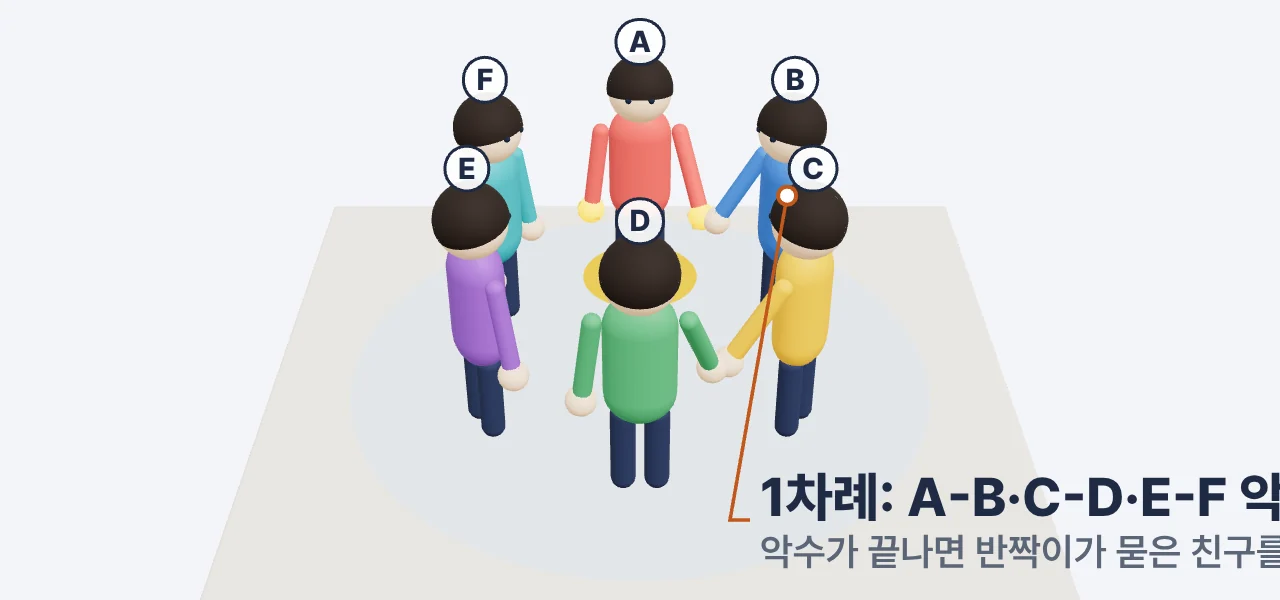
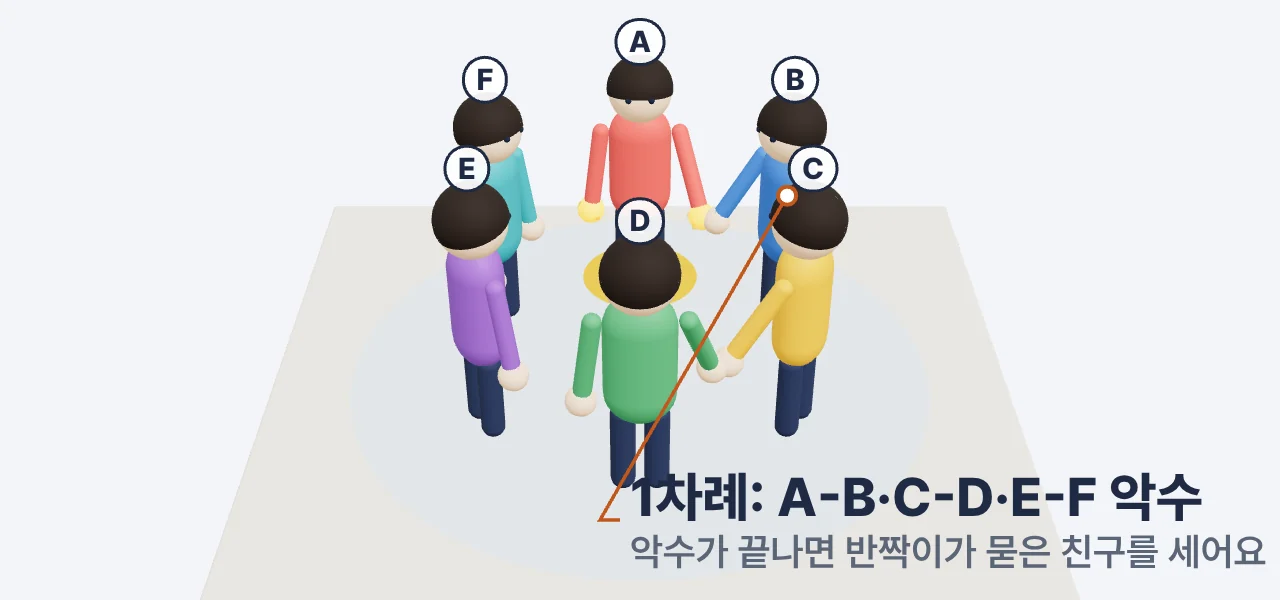
교과 교재(기후·감염병): 실사형 설명 사진 16장 넣기 · 사진 속 가짜 한글 지우기
- 원장 맥에서 만든 후보 57장 중 16장을 골라 assets/book/<단원>-photo-<장면>.webp로 넣고 두 교재를 다시 생성.
- 폭염·집중호우·여섯 친구 사진의 어색한 한글(간판·번호판·옷 글씨)을 빈 간판·흐림·천 색으로 정리.
- 기침 예절(손으로 가리는 모습)·환기(창문 닫힘)는 잘못 가르칠 수 있어 넣지 않음.
- 사진 칸을 3D 렌더 비율(32/15)에 맞춰 렌더 이름표가 잘리지 않게, glit-shake 렌더 이름표 자리 옮김.

Claude-Session: https://claude.ai/code/session_01QaWvZ4cDmAshpYaqknmU9s

Changed region(s): [[0.4688, 0.54, 1.0, 0.96], [0.5625, 0.33, 0.625, 0.57], [0.5, 0.63, 0.5312, 0.75]]

diff --git a/science-lab/data/book/c22-s42-u04.workbook.js b/science-lab/data/book/c22-s42-u04.workbook.js
@@ -975,6 +975,29 @@ export const workbook = {
      ]
     },
     {
+     "type": "gallery",
+     "items": [
+      {
+       "src": "../assets/book/c22-s42-u04-photo-heatwave.webp",
+       "alt": "햇볕이 강한 여름 거리",
+       "cap": "폭염"
+      },
+      {
+       "src": "../assets/book/c22-s42-u04-photo-downpour.webp",
+       "alt": "많은 비로 물에 잠긴 낮은 길",
+       "cap": "집중호우"
+      },
+      {
+       "src": "../assets/book/c22-s42-u04-photo-drought.webp",
+       "alt": "물이 말라 갈라진 저수지 바닥",
+       "cap": "가뭄"
+      }
+     ],
+     "numbered": false,
+     "cols": 3,
+     "credit": "AI 실사형 설명 이미지 · 실제 사진 아님"
+    },
+    {
      "type": "text",
      "text": "한 번의 소나기나 하루의 추위는 기후변화의 증거가 아니에요. 여러 해에 걸쳐 같은 방향으로 달라지는지 살펴봐요."
     },
@@ -1058,6 +1081,19 @@ export const workbook = {
       "숲을 베어 내 이산화 탄소를 흡수하는 나무가 줄어든다"
      ],
      "ordered": false
+    },
+    {
+     "type": "gallery",
+     "items": [
+      {
+       "src": "../assets/book/c22-s42-u04-photo-smokestack.webp",
+       "alt": "굴뚝에서 연기가 나오는 화력 발전소와 석탄 더미",
+       "cap": "석탄을 태워 전기를 만드는 화력 발전소"
+      }
+     ],
+     "numbered": false,
+     "cols": 1,
+     "credit": "AI 실사형 설명 이미지 · 실제 사진 아님"
     },
     {
      "type": "example",
@@ -1149,12 +1185,12 @@ export const workbook = {
      "type": "gallery",
      "items": [
       {
-       "src": "../assets/book/c22-s42-u04-sea-build.webp",
+       "src": "../assets/book/c22-s42-u04-photo-setup.webp",
        "alt": "점토로 만든 해안 마을 모형",
        "cap": "통에 점토 땅을 만들고 집 A~E를 붙여요."
       },
       {
-       "src": "../assets/book/c22-s42-u04-sea-pour.webp",
+       "src": "../assets/book/c22-s42-u04-photo-pour.webp",
        "alt": "통에 물을 붓는 모습",
        "cap": "물높이 1 cm(지금의 바다)에서 시작해 물을 조금씩 부어요."
       },
@@ -1171,7 +1207,7 @@ export const workbook = {
      ],
      "numbered": true,
      "cols": 2,
-     "credit": "3D 모형 렌더 · 모형 값(실제 측정이 아님)"
+     "credit": "3D 모형 렌더(모형 값) · 실사형 사진은 AI 설명 이미지(실제 사진 아님)"
     },
     {
      "type": "table",
@@ -1274,10 +1310,15 @@ export const workbook = {
        "src": "../assets/book/c22-s42-u04-sea-wall.webp",
        "alt": "방파제를 세운 모형",
        "cap": "모형의 방파제(3.5 cm)"
+      },
+      {
+       "src": "../assets/book/c22-s42-u04-photo-seawall.webp",
+       "alt": "파도를 막는 바닷가의 콘크리트 방파제",
+       "cap": "실제 바닷가의 방파제"
       }
      ],
      "numbered": false,
-     "cols": 1,
+     "cols": 2,
      "credit": "3D 모형 렌더(모형 값) · 실사형 사진은 AI 설명 이미지(실제 사진 아님)"
     },
     {
@@ -1343,6 +1384,24 @@ export const workbook = {
        "방파제, 빗물 펌프장, 낮은 땅에 집 짓지 않기"
       ]
      ]
+    },
+    {
+     "type": "gallery",
+     "items": [
+      {
+       "src": "../assets/book/c22-s42-u04-photo-lightswitch.webp",
+       "alt": "빈 교실의 전등 스위치를 끄는 손",
+       "cap": "줄이기 — 빈 교실 불 끄기"
+      },
+      {
+       "src": "../assets/book/c22-s42-u04-photo-seawall.webp",
+       "alt": "바닷가의 방파제",
+       "cap": "대비하기 — 방파제"
+      }
+     ],
+     "numbered": false,
+     "cols": 2,
+     "credit": "AI 실사형 설명 이미지 · 실제 사진 아님"
     },
     {
      "type": "example",
@@ -1622,6 +1681,19 @@ export const workbook = {
     {
      "type": "heading",
      "text": "읽기 자료 · 낮은 섬나라"
+    },
+    {
+     "type": "gallery",
+     "items": [
+      {
+       "src": "../assets/book/c22-s42-u04-photo-atoll.webp",
+       "alt": "바다 높이와 거의 같은 낮고 평평한 산호섬",
+       "cap": "낮고 평평한 산호섬(설명 이미지)"
+      }
+     ],
+     "numbered": false,
+     "cols": 1,
+     "credit": "AI 실사형 설명 이미지 · 실제 사진 아님"
     },
     {
      "type": "text",
@@ -2341,7 +2413,7 @@ export const workbook = {
   }
  ],
  "figures": {
-  "hero": "<div class=\"ed-photo\"><img src=\"../assets/book/c22-s42-u04-sea-hero.webp\" alt=\"유리 통 속 해안 마을 모형. 바다 옆 언덕과 낮은 평지에 집 다섯 채가 있다.\" loading=\"eager\"><p class=\"ed-photo-note\">바다 바로 옆 언덕 위의 집 A와 안쪽 낮은 땅의 집 D — 어느 집이 먼저 물에 닿을까요?</p><small class=\"ed-photo-credit\">3D 모형 렌더 · 모형 값(실제 측정이 아님)</small></div>",
+  "hero": "<div class=\"ed-photo\"><img src=\"../assets/book/c22-s42-u04-photo-setup.webp\" alt=\"투명한 통 속에 점토로 만든 해안 마을 모형과 작은 집들, 세워 둔 자\" loading=\"eager\"><p class=\"ed-photo-note\">바다 바로 옆 언덕 위의 집과 안쪽 낮은 땅의 집 — 어느 집이 먼저 물에 닿을까요?</p><small class=\"ed-photo-credit\">AI 실사형 설명 이미지 · 실제 사진 아님</small></div>",
   "build": "<div class=\"ed-photo\"><img src=\"../assets/book/c22-s42-u04-sea-build.webp\" alt=\"점토로 만든 해안 마을 모형과 눈금자\" loading=\"eager\"><p class=\"ed-photo-note\">통·점토 땅·집 위치는 그대로 두고 물높이만 바꿔요.</p><small class=\"ed-photo-credit\">3D 모형 렌더 · 모형 값(실제 측정이 아님)</small></div>",
   "start": "<div class=\"ed-photo\"><img src=\"../assets/book/c22-s42-u04-sea-start.webp\" alt=\"물높이 1 cm에서 시작하는 해안 마을 모형\" loading=\"eager\"><p class=\"ed-photo-note\">물높이 1 cm(지금의 바다)에서 시작해 1 cm씩 높여요. 집 A~E의 땅 높이는 앞쪽 표를 봐요.</p><small class=\"ed-photo-credit\">3D 모형 렌더 · 모형 값(실제 측정이 아님)</small></div>",
   "over": "<div class=\"ed-photo\"><img src=\"../assets/book/c22-s42-u04-sea-over.webp\" alt=\"물이 방파제를 넘어 안쪽 낮은 땅까지 들어온 모형\" loading=\"eager\"><p class=\"ed-photo-note\">방파제(3.5 cm)보다 물이 높아지면 넘쳐 들어와요.</p><small class=\"ed-photo-credit\">3D 모형 렌더 · 모형 값(실제 측정이 아님)</small></div>",

diff --git a/science-lab/data/book/c22-s32-u04.workbook.js b/science-lab/data/book/c22-s32-u04.workbook.js
@@ -979,6 +979,29 @@ export const workbook = {
      "text": "실내 공기를 떠다니다 옮겨 가기도 하고, 상한 음식이나 깨끗하지 않은 물로 옮겨 가기도 해요. 컵이나 수저를 함께 쓰면 침으로 옮겨 갈 수 있어요."
     },
     {
+     "type": "gallery",
+     "items": [
+      {
+       "src": "../assets/book/c22-s32-u04-photo-doorknob.webp",
+       "alt": "문손잡이를 잡는 손",
+       "cap": "접촉 — 손·물건"
+      },
+      {
+       "src": "../assets/book/c22-s32-u04-photo-sneeze.webp",
+       "alt": "재채기할 때 퍼지는 작은 침방울",
+       "cap": "비말 — 기침·재채기"
+      },
+      {
+       "src": "../assets/book/c22-s32-u04-photo-cooking.webp",
+       "alt": "채소를 씻고 물을 끓이는 부엌",
+       "cap": "물·음식"
+      }
+     ],
+     "numbered": false,
+     "cols": 3,
+     "credit": "AI 실사형 설명 이미지 · 실제 사진 아님"
+    },
+    {
      "type": "diagram",
      "key": "routes",
      "caption": "옮겨 가는 길과 막는 행동"
@@ -1055,7 +1078,7 @@ export const workbook = {
      "type": "gallery",
      "items": [
       {
-       "src": "../assets/book/c22-s32-u04-glit-start.webp",
+       "src": "../assets/book/c22-s32-u04-photo-glitter-circle.webp",
        "alt": "여섯 친구가 둥글게 선 모습",
        "cap": "여섯 친구(A~F)가 둥글게 서요."
       },
@@ -1077,7 +1100,7 @@ export const workbook = {
      ],
      "numbered": true,
      "cols": 2,
-     "credit": "3D 모형 렌더 · 학습용 모형(반짝이는 병원체가 아님)"
+     "credit": "3D 모형 렌더(학습용 모형) · 실사형 사진은 AI 설명 이미지(실제 사진 아님)"
     },
     {
      "type": "table",
@@ -1211,6 +1234,24 @@ export const workbook = {
     {
      "type": "text",
      "text": "손은 병원체가 옮겨 가는 가장 흔한 길이에요. **비누와 흐르는 물로 30초 이상**, 손바닥·손등·손가락 사이·손가락·엄지손가락·손톱 밑까지 꼼꼼히 씻어요."
+    },
+    {
+     "type": "gallery",
+     "items": [
+      {
+       "src": "../assets/book/c22-s32-u04-photo-handwash.webp",
+       "alt": "비누 거품으로 손을 씻는 모습",
+       "cap": "비누 거품을 내어 30초 이상"
+      },
+      {
+       "src": "../assets/book/c22-s32-u04-photo-glitter-left.webp",
+       "alt": "물로만 헹군 뒤 손가락 사이와 손톱 밑에 남은 반짝이",
+       "cap": "물로만 헹구면 남는 곳"
+      }
+     ],
+     "numbered": false,
+     "cols": 2,
+     "credit": "AI 실사형 설명 이미지 · 실제 사진 아님"
     },
     {
      "type": "diagram",
@@ -2313,7 +2354,7 @@ export const workbook = {
   }
  ],
  "figures": {
-  "hero": "<div class=\"ed-photo\"><img src=\"../assets/book/c22-s32-u04-glit-hero.webp\" alt=\"여섯 친구가 둘러서 악수하는 반짝이 가루 손 모형\" loading=\"eager\"><p class=\"ed-photo-note\">A의 손에만 반짝이를 묻히고 악수하면 반짝이는 어디까지 옮겨 갈까요?</p><small class=\"ed-photo-credit\">3D 모형 렌더 · 학습용 모형(반짝이는 병원체가 아님)</small></div>",
+  "hero": "<div class=\"ed-photo\"><img src=\"../assets/book/c22-s32-u04-photo-glitter-shake.webp\" alt=\"반짝이 가루가 묻은 두 손이 악수하는 모습\" loading=\"eager\"><p class=\"ed-photo-note\">한 사람의 손에 묻은 반짝이가 악수할 때 옮겨 가요. 눈에 보이지 않는 병원체도 이렇게 옮겨 갈 수 있어요.</p><small class=\"ed-photo-credit\">AI 실사형 설명 이미지 · 실제 사진 아님</small></div>",
   "start": "<div class=\"ed-photo\"><img src=\"../assets/book/c22-s32-u04-glit-start.webp\" alt=\"여섯 친구 A~F가 둥글게 선 모습\" loading=\"eager\"><p class=\"ed-photo-note\">처음에는 A의 손에만 반짝이가 있어요.</p><small class=\"ed-photo-credit\">3D 모형 렌더 · 학습용 모형(반짝이는 병원체가 아님)</small></div>",
   "shake": "<div class=\"ed-photo\"><img src=\"../assets/book/c22-s32-u04-glit-shake.webp\" alt=\"두 친구씩 짝을 지어 악수하는 모습\" loading=\"eager\"><p class=\"ed-photo-note\">정해진 짝끼리 악수해요. 반짝이가 있는 손과 닿은 손에 반짝이가 옮겨 가요.</p><small class=\"ed-photo-credit\">3D 모형 렌더 · 학습용 모형(반짝이는 병원체가 아님)</small></div>",
   "wash": "<div class=\"ed-photo\"><img src=\"../assets/book/c22-s32-u04-glit-wash.webp\" alt=\"B·D·F가 비누로 손을 씻는 모습\" loading=\"eager\"><p class=\"ed-photo-note\">「B·D·F가 차례마다 손 씻기」 — 악수 전에 세 친구가 손을 씻어요.</p><small class=\"ed-photo-credit\">3D 모형 렌더 · 학습용 모형(반짝이는 병원체가 아님)</small></div>",

diff --git a/science-lab/tools/book-art.js b/science-lab/tools/book-art.js
@@ -198,7 +198,7 @@ if (shot === 'hero' || shot === 'sizes') {
       for (const f of ['A', 'B', 'C', 'D', 'E', 'F']) tags3.push([f, kidAt(rig, f, 2.0), { size: 30, color: '#1f2a44' }]);
       if (shot === 'glit-all') CO('3차례 뒤 여섯 명 모두', kidAt(rig, 'D', 1.1), 760, 520, '아무도 손을 씻지 않았을 때');
       if (shot === 'glit-start') CO('A의 손에 반짝이 가루', kidAt(rig, 'A', 1.1), 90, 90, '나머지 다섯 명은 깨끗한 손');
-      if (shot === 'glit-shake') CO('1차례: A-B·C-D·E-F 악수', kidAt(rig, 'B', 1.1), 760, 520, '악수가 끝나면 반짝이가 묻은 친구를 세어요');
+      if (shot === 'glit-shake') CO('1차례: A-B·C-D·E-F 악수', kidAt(rig, 'B', 1.1), 630, 520, '악수가 끝나면 반짝이가 묻은 친구를 세어요');
       if (shot === 'glit-shake2') CO('2차례: B-C·D-E·F-A', kidAt(rig, 'C', 1.1), 760, 520, '3차례: C-D·E-F·A-B');
       if (shot === 'glit-wash') CO('악수 전에 B·D·F 손 씻기', kidAt(rig, 'D', 1.1), 760, 520, '비누와 흐르는 물로 30초 이상');
     }

diff --git a/science-lab/v2/book-handwriting.css b/science-lab/v2/book-handwriting.css
@@ -77,6 +77,8 @@
 .bk-editorial .ed-gallery-item p{margin:1.2mm 0 0!important;font-size:9pt;line-height:1.45;color:#2a3442}
 .bk-editorial .ed-gallery.numbered .ed-gallery-item p b{color:var(--bk-theme,#2456c4);font-size:10.5pt}
 .bk-editorial .ed-gallery .ed-photo-credit{grid-column:1/-1;margin-top:-1mm}
+/* 3D 렌더는 가로 2.13:1 이라 16:9 로 자르면 양옆 이름표가 잘린다 → 두 단원 사진 칸을 렌더 비율에 맞춘다 */
+.bk-editorial:is([data-unit="c22-s42-u04"],[data-unit="c22-s32-u04"]) .ed-gallery-item img{aspect-ratio:32/15}
 .bk-editorial:is([data-unit="c22-s42-u04"],[data-unit="c22-s32-u04"]) .ed-gallery:not(.numbered)[style*="--gallery-cols:1"] img{aspect-ratio:3/1}
 .bk-editorial .ed-term{color:var(--bk-theme,#1c489d);font-weight:700;background:linear-gradient(transparent 62%,color-mix(in srgb,var(--bk-theme,#2456c4) 18%,transparent) 62%)}
 /* 단원평가·준비 점검: 짧은 문항(객관식·모두 고르기·빈칸·단답)은 2단, 서술·그림·연결·순서는 한 줄 전체 */

diff --git a/science-lab/v2/index.html b/science-lab/v2/index.html
@@ -58,7 +58,7 @@
 <link rel="stylesheet" href="body-book.css?v=1">
 <link rel="stylesheet" href="body-lesson.css?v=1">
 <link rel="stylesheet" href="book-editorial.css?v=2">
-<link rel="stylesheet" href="book-handwriting.css?v=3">
+<link rel="stylesheet" href="book-handwriting.css?v=4">
 <link rel="stylesheet" href="photo-figure.css?v=2">
 <link rel="stylesheet" href="solution-bank-paper.css?v=1">
 <link rel="stylesheet" href="body-bank-paper.css?v=1">

diff --git a/science-lab/HANDOFF.md b/science-lab/HANDOFF.md
@@ -161,6 +161,11 @@
     - 도구: `scripts/local/book-photos.cmd` → `scripts/book-photos.py`(FLUX.1-schnell, Apache 2.0 · 메모리 부족 시 SDXL), 장면 목록 `scripts/book-photos/shots.json`(19장면: 실험 배치 + 개념 사진), 후보 3장씩 → `inbox/book-photos` 브랜치(후보만 담은 고아 커밋, PC 작업 폴더·main 무관). PC에서는 `git worktree add ..\lete-on-photos FETCH_HEAD` 전용 폴더에서 돌린다(README).
     - 받으면: `git fetch origin inbox/book-photos` → 임시 폴더에 풀기 → 눈으로 고르기 → `python3 scripts/import-book-photos.py <폴더> setup=2 ...` → 교재 생성기 2개 다시 실행. 사진 자리는 이미 있다(`photoSrc`·`cell`·`only` — 사진이 있으면 사진, 없으면 3D 렌더로 대신하거나 블록을 뺀다). 표기 「AI 실사형 설명 이미지 · 실제 사진 아님」.
     - 19장면을 모두 넣은 상태도 임시 그림으로 A4 넘침 0을 확인해 두었다.
+    - **2026-10-20 사진 반영**: 원장 맥에서 Codex가 FLUX.2 Klein 4B(mflux)로 57장을 만들어 Drive(폴더 id `1EQePp4V6FxrW87v7EoYNm-aBqsRhV0PG`)에 올림(수신 브랜치는 안 씀). 16장을 골라 넣었다: 기후 setup·pour·heatwave·downpour·drought·smokestack·atoll·seawall·lightswitch, 감염병 glitter-shake·glitter-circle·glitter-left·handwash·sneeze·doorknob·cooking.
+      - **뺀 것**: 기침 예절(sleeve) — 후보가 전부 팔꿈치가 아니라 **손·주먹으로 가리는** 모습이라 잘못 가르친다 → 3D 렌더 유지. 환기(ventilation) — 창문이 닫혀 있다 → 자리 비움. 사과 재배지(orchard) — 지면에 자리가 없어 넣지 않음.
+      - **가짜 한글 고침(원장 「한글 간판 같은게 어색」)**: 지우개(inpaint)는 색 얼룩이 남아 버렸다. 대신 heatwave = 간판 판을 바탕색 평면으로 칠한 「빈 간판」(깃발·세로 간판은 다각형 안만), downpour = 물에 잠긴 길 쪽으로 잘라 먼 간판은 서서히 흐리게·번호판 흐리게, glitter-circle = 스웨터의 큰 글씨만(글자 바로 바깥 천 색으로 메움 · 곰 그림·칠판 메모는 그대로). 도구는 세션 임시 폴더에만 있었다 — 같은 일이 또 생기면 **inpaint 대신 「바탕색 평면 + 다각형」**이 낫다는 것만 기억할 것.
+      - 두 단원 사진 칸 비율을 3D 렌더(2.13:1)에 맞춰 32/15로 — 16:9로 자르면 렌더 양옆 이름표가 잘렸다. `glit-shake` 렌더는 이름표가 그림 밖으로 나가 있어 글자 자리를 옮겨 다시 렌더.
+      - 실험실 배경 `lab-room`·`lab-bench`(v1)는 아직 안 만들어짐 — 맥에서 `--only lab-room,lab-bench`로 만들면 들여와 `app.js` `CORRIDOR`에 연결.
   - **지면 배치 다듬기**: 실험 과정 ①②③④ 사진 줄(`gallery` 블록), 사례 사진 줄, 핵심 낱말 강조(`**낱말**` → `.ed-term`, opt-in `richText`), 단원평가·준비 점검의 짧은 문항 2단(`layout:'two'`, 서술·그림·연결·순서는 한 줄 전체).
   - **남은 것**: 그림은 3D 모형 렌더와 도표뿐이다. 실제 사진(폭염·투발루·손 씻기 등)은 유료 이미지 생성이나 사진 사용 허락이 필요해 넣지 않았다 — 원장 결정 필요. 기후 단원 시작 화면의 「옛 에너지/날씨 대응 관련 발췌」 카드 이름은 문제은행 쪽 이름표(`BANK` label)라 이번에 손대지 않았다.
 - **④ 과학 탐구 프로그램(v1 `/science-lab/`) — 「과학 탐구 기록 보관소」(원장 2026-10-20: hugh-kim.space 「THE ARCHIVE」 느낌)**
